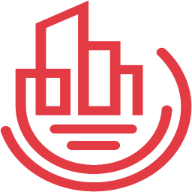
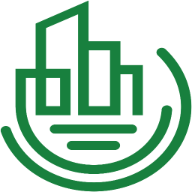
color changed

diff --git a/client/src/components/layout/Navbar.tsx b/client/src/components/layout/Navbar.tsx
@@ -3,6 +3,7 @@ import { Link, useLocation } from 'wouter';
 import { Button } from '@/components/ui/button';
 import { cn } from '@/lib/utils';
 import { Menu, X, ChevronRight } from 'lucide-react';
+import logo from 'client/public/assets/logo.png';
 
 const Navbar = () => {
   const [isOpen, setIsOpen] = useState(false);
@@ -70,22 +71,25 @@ const Navbar = () => {
   return (
     <header className={cn(
       "fixed w-full z-50 transition-all duration-300",
-      "bg-red-300 border-b border-border",
+      "bg-green-200 border-b border-border",
       isScrolled ? "shadow-md py-2" : "py-4"
     )}>
       <nav className="container mx-auto px-4 sm:px-6 lg:px-8">
         <div className="flex justify-between items-center">
           <div className="flex items-center">
-            <Link href="/" className="flex items-center">
+            <Link href="/" className="flex items-center space-x-2">
+              <img src="/assets/logo.png" alt="logo" className="h-7 w-7" />
               <span className="text-primary font-heading font-bold text-2xl">Freelantix</span>
             </Link>
+
+
           </div>
 
           {/* Desktop Navigation */}
           <div className="hidden md:flex items-center space-x-8">
             {navItems.map((item) => (
-              <Link 
-                key={item.path} 
+              <Link
+                key={item.path}
                 href={item.path}
                 className={cn(
                   "nav-link text-foreground hover:text-primary font-medium transition-colors",
@@ -104,10 +108,10 @@ const Navbar = () => {
 
           {/* Mobile menu button */}
           <div className="md:hidden flex items-center gap-2">
-            <Button 
-              variant="ghost" 
-              onClick={toggleMenu} 
-              className="text-white hover:text-white"
+            <Button
+              variant="ghost"
+              onClick={toggleMenu}
+              className="text-green-600 hover:text-green-800"
               aria-label="Toggle Menu"
             >
               {isOpen ? <X size={24} /> : <Menu size={24} />}
@@ -117,28 +121,37 @@ const Navbar = () => {
       </nav>
 
       {/* Mobile Navigation Overlay */}
-      <div 
+      <div
         className={cn(
-          "fixed inset-0 bg-background/80 backdrop-blur-sm z-40 md:hidden transition-opacity duration-300",
+          "fixed inset-0 bg-background/60 backdrop-blur-sm z-40 md:hidden transition-opacity duration-300",
           isOpen ? "opacity-100" : "opacity-0 pointer-events-none"
         )}
       >
         {/* Mobile Menu Content */}
-        <div 
+        <div
           ref={mobileMenuRef}
           className={cn(
-            "fixed top-[73px] right-0 bottom-0 w-3/4 max-w-sm bg-background border-l border-border shadow-xl z-50 overflow-y-auto transition-transform duration-300 ease-in-out",
+            "fixed top-0 right-0 bottom-0 w-3/4 max-w-sm bg-green-200 p-3 pt-6 border-l border-border shadow-xl z-50 overflow-y-auto transition-transform duration-300 ease-in-out",
             isOpen ? "translate-x-0" : "translate-x-full"
           )}
         >
-          <div className="p-6 flex flex-col h-full">
+          <div className="flex items-center">
+            <Link href="/" className="flex items-center space-x-2">
+              <img src="/assets/logo.png" alt="logo" className="h-7 w-7" />
+              <span className="text-primary font-heading font-bold text-2xl">Freelantix</span>
+            </Link>
+
+
+          </div>
+          <div className="p-6 flex flex-col">
+            
             <div className="space-y-6 flex-1">
               {navItems.map((item) => (
-                <div 
+                <div
                   key={item.path}
                   className="border-b border-border pb-3"
                 >
-                  <Link 
+                  <Link
                     href={item.path}
                     className={cn(
                       "group flex items-center justify-between py-2 text-lg font-medium transition-colors",
@@ -146,12 +159,12 @@ const Navbar = () => {
                     )}
                   >
                     <span>{item.label}</span>
-                    <ChevronRight 
-                      size={18} 
+                    <ChevronRight
+                      size={18}
                       className={cn(
                         "transition-transform duration-300",
                         "group-hover:translate-x-1 text-primary opacity-0 group-hover:opacity-100"
-                      )} 
+                      )}
                     />
                   </Link>
                 </div>
@@ -159,12 +172,12 @@ const Navbar = () => {
             </div>
 
             <div className="mt-8">
-              <Button 
-                asChild 
-                className="w-full btn btn-primary text-white"
+              <Button
+                asChild
+                className="w-full btn btn-primary text-white border"
                 size="lg"
               >
-                <Link href="/contact"><span className="text-white">Get Started</span></Link>
+                <Link href="/contact"><span className="text-green">Get Started</span></Link>
               </Button>
             </div>
           </div>

diff --git a/client/src/index.css b/client/src/index.css
@@ -7,27 +7,28 @@
 
 @layer base {
   :root {
-    --background: 30 20% 97%;
-    --foreground: 30 30% 10%;
-    --card: 30 15% 95%;
-    --card-foreground: 30 30% 10%;
-    --popover: 30 15% 95%;
-    --popover-foreground: 30 30% 10%;
-    --primary: 350 80% 45%;
+    --background: 140 20% 97%;
+    --foreground: 140 30% 10%;
+    --card: 140 15% 95%;
+    --card-foreground: 140 30% 10%;
+    --popover: 140 15% 95%;
+    --popover-foreground: 140 30% 10%;
+    --primary: 140 70% 40%;
     --primary-foreground: 0 0% 100%;
-    --secondary: 25 40% 92%;
-    --secondary-foreground: 25 30% 20%;
-    --muted: 30 10% 90%;
-    --muted-foreground: 30 10% 40%;
-    --accent: 350 80% 45%;
+    --secondary: 140 40% 92%;
+    --secondary-foreground: 140 30% 20%;
+    --muted: 140 10% 90%;
+    --muted-foreground: 140 10% 40%;
+    --accent: 140 70% 40%;
     --accent-foreground: 0 0% 100%;
     --destructive: 0 70% 50%;
     --destructive-foreground: 0 0% 100%;
-    --border: 30 15% 85%;
-    --input: 30 15% 85%;
-    --ring: 350 80% 45%;
+    --border: 140 15% 85%;
+    --input: 140 15% 85%;
+    --ring: 140 70% 40%;
     --radius: 0.5rem;
   }
+  
 
   * {
     @apply border-border;

diff --git a/client/src/components/home/PricingSection.tsx b/client/src/components/home/PricingSection.tsx
@@ -120,7 +120,7 @@ const PricingSection = () => {
                 <Button
                   asChild
                   className={`w-full ${
-                    plan.popular ? 'bg-primary border border-red-500 hover:bg-white' : 'bg-white border border-red-500 hover:bg-primary'
+                    plan.popular ? 'bg-primary border border-green-500 hover:bg-white' : 'bg-white border border-green-500 hover:bg-primary'
                   }`}
                   size="lg"
                 >
@@ -137,7 +137,7 @@ const PricingSection = () => {
           <p className="text-neutral-500 mb-4">
             Need a custom solution? We can create a tailor-made package just for you.
           </p>
-          <Button asChild className="border border-red-800">
+          <Button asChild className="border border-green-600">
             <Link href="/contact">
               Get a Custom Quote
             </Link>

diff --git a/client/src/components/layout/Footer.tsx b/client/src/components/layout/Footer.tsx
@@ -44,11 +44,12 @@ const Footer = () => {
   };
 
   return (
-    <footer className="bg-red-300 text-foreground py-16">
+    <footer className="bg-green-200 text-foreground py-16">
       <div className="container mx-auto px-4 sm:px-6 lg:px-8">
         <div className="grid grid-cols-1 md:grid-cols-2 lg:grid-cols-4 gap-12">
           <div>
-            <Link href="/" className="inline-block mb-6">
+          <Link href="/" className="flex items-center space-x-2 mb-5">
+              <img src="/assets/logo.png" alt="logo" className="h-7 w-7" />
               <span className="text-primary font-heading font-bold text-2xl">Freelantix</span>
             </Link>
             <p className="text-muted-foreground mb-6">

diff --git a/client/src/components/home/TestimonialsSection.tsx b/client/src/components/home/TestimonialsSection.tsx
@@ -119,7 +119,7 @@ const TestimonialsSection = () => {
                       <p className="text-muted-foreground text-sm">{testimonial.position}, {testimonial.company}</p>
                     </div>
                   </div>
-                  <div className="mb-4 flex text-amber-400">
+                  <div className="mb-4 flex text-amber-600">
                     {Array.from({ length: Math.floor(testimonial.rating) }).map((_, i) => (
                       <Star key={i} size={18} fill="currentColor" />
                     ))}

diff --git a/client/src/components/home/AboutSection.tsx b/client/src/components/home/AboutSection.tsx
@@ -111,7 +111,7 @@ const AboutSection = () => {
             </div>
             
             <div>
-              <Button asChild className="bg-white border border-red-800 hover:bg-accent/90 inline-flex items-center">
+              <Button asChild className="bg-white border border-green-600 hover:bg-accent/90 inline-flex items-center">
                 <Link href="/about">
                   Meet Our Team <i className="fas fa-arrow-right ml-2"></i>
                 </Link>

diff --git a/client/src/components/home/HeroSection.tsx b/client/src/components/home/HeroSection.tsx
@@ -23,7 +23,7 @@ const HeroSection = () => {
             <div 
               className="flex flex-col sm:flex-row gap-4"
             >
-              <Button asChild size="lg" className="bg-white border border-red-500 hover:bg-primary/90 text-white">
+              <Button asChild size="lg" className="bg-white border border-green-500 hover:bg-primary/90 text-white">
                 <Link href="/services">
                   Explore Services
                 </Link>

diff --git a/client/src/pages/Services.tsx b/client/src/pages/Services.tsx
@@ -150,7 +150,7 @@ const Services = () => {
                   ))}
                 </ul>
                 
-                <Button asChild className="bg-white border border-red-800 hover:bg-primary/90">
+                <Button asChild className="bg-white border border-green-600 hover:bg-primary/90">
                   <Link href="/contact">
                     Get Started
                   </Link>

diff --git a/client/src/components/ui/developerName.tsx b/client/src/components/ui/developerName.tsx
@@ -58,7 +58,7 @@ export default function DeveloperName() {
             custom={i}
             initial={{ opacity: 0, rotateX: 0 }}
             animate={controls}
-            className="text-[#CF1736] drop-shadow-lg"
+            className="text-[#5CB338] drop-shadow-lg"
           >
             {char}
           </motion.span>
